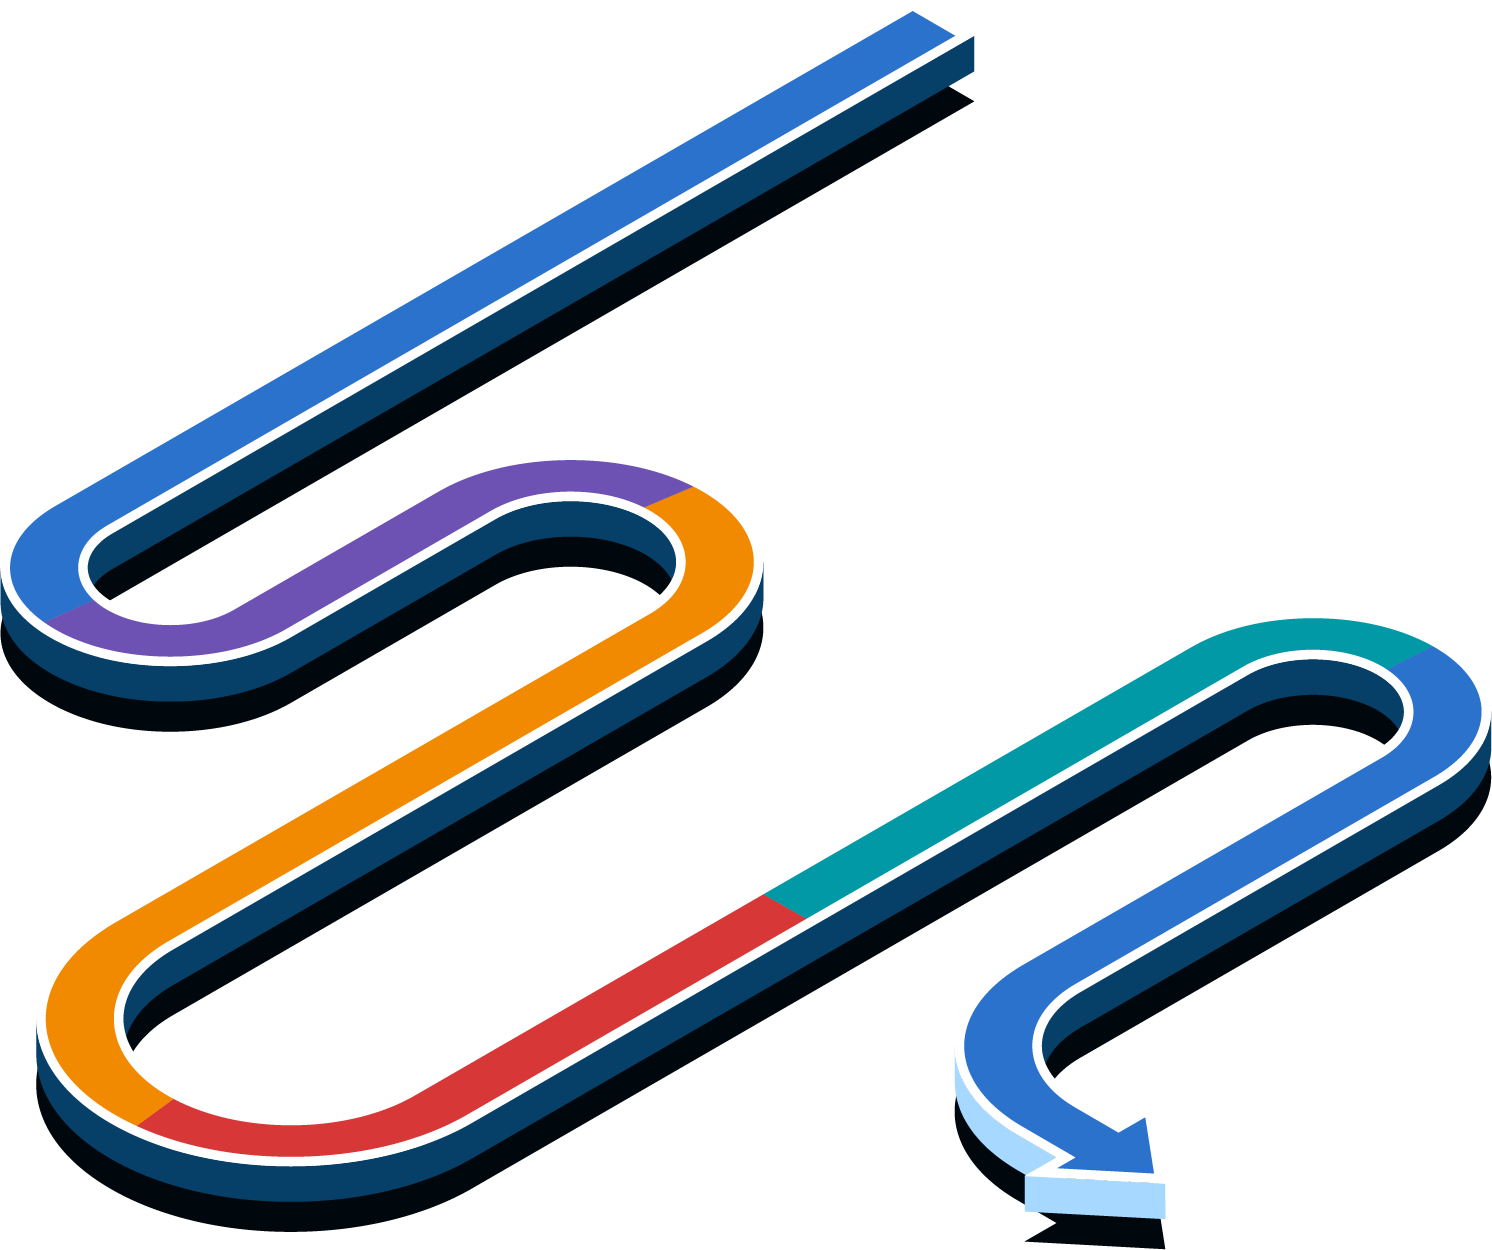
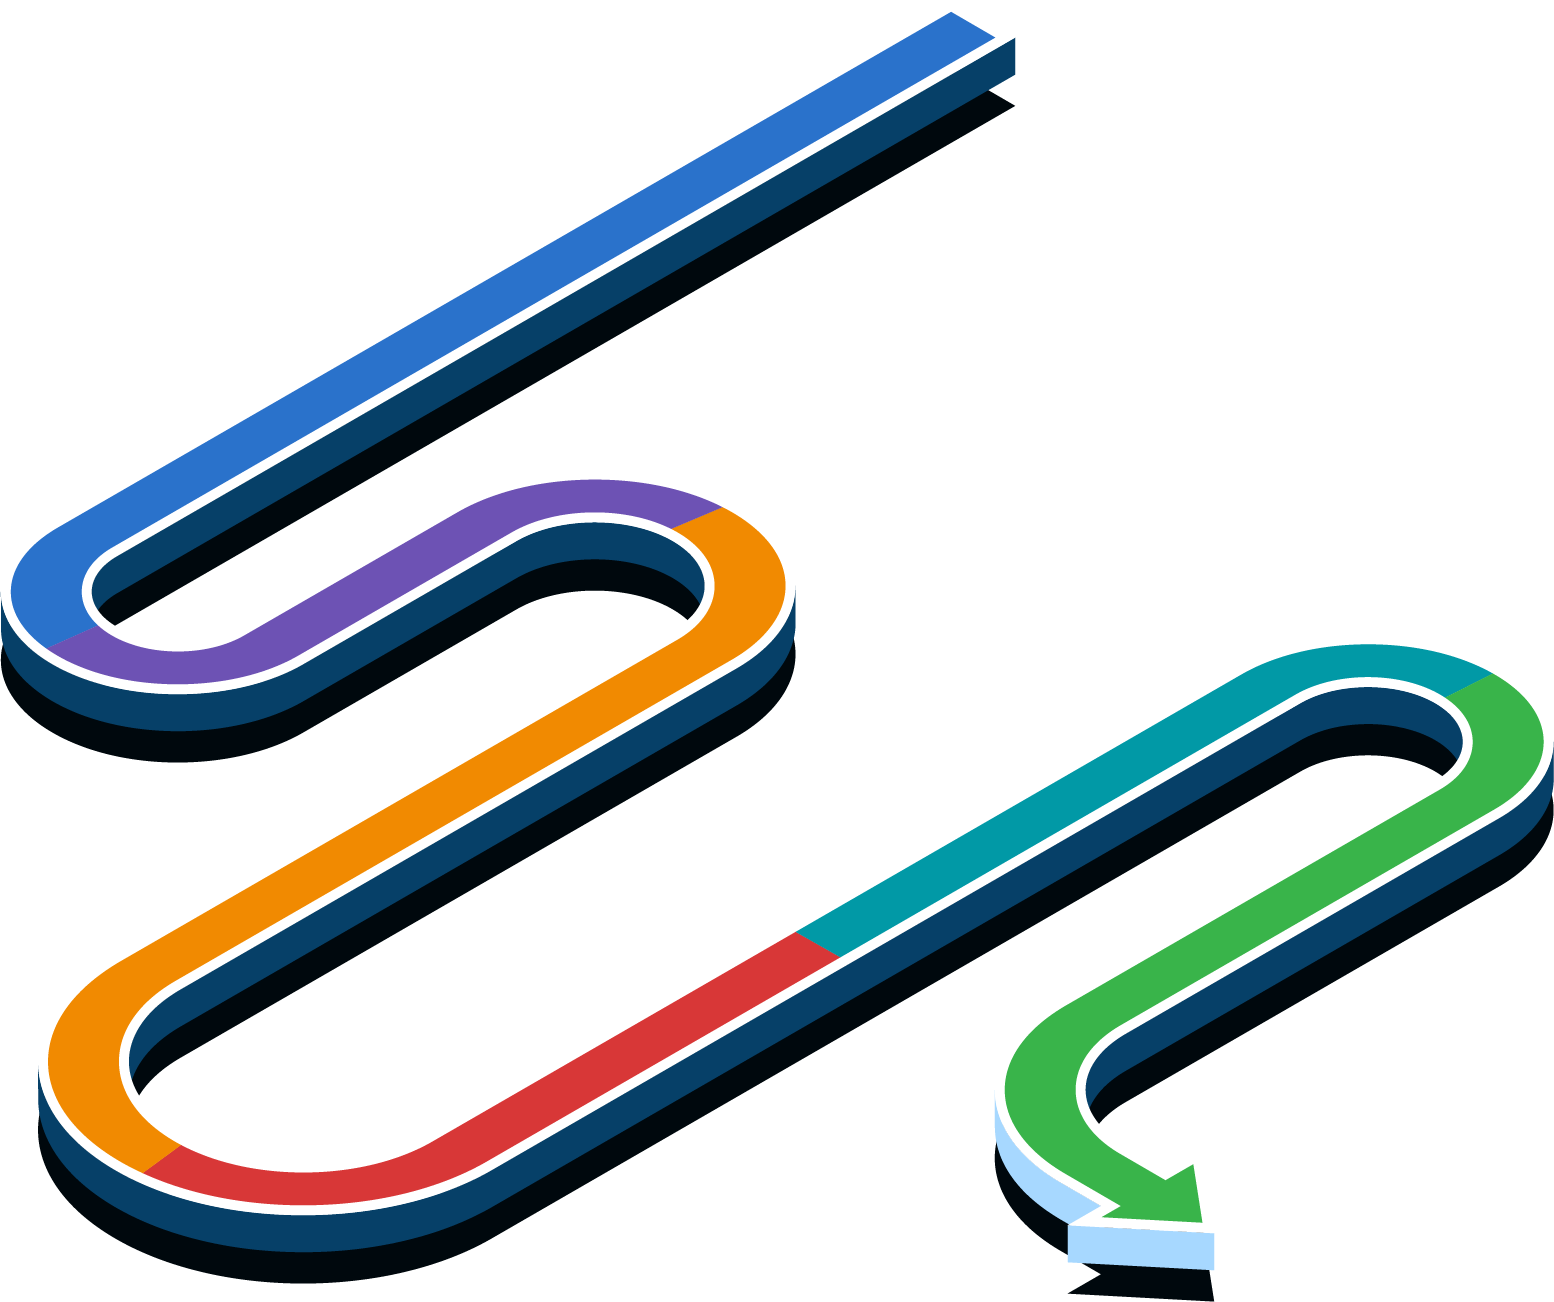
12

Changed region(s): [[0.6475, 0.4992, 1.0, 0.936], [0.7399, 0.9984, 0.8016, 1.0]]

diff --git a/index.html b/index.html
@@ -27,7 +27,7 @@
                   Catálogo de cursos
                 </p>
               </a>
-              <img src="imgs/Rueda_con_rayita.png" alt="" class="rueda">
+              <img src="imgs/globo-raya.png" alt="" class="rueda">
             </div>
             <div class="flecha2">
               <a href="link-flecha">
@@ -35,10 +35,10 @@
                   Mi ruta de Aprendizaje
                 </p>
               </a>
-              <img src="imgs/Rueda_con_rayita.png" alt="" class="rueda">
+              <img src="imgs/globo-raya.png" alt="" class="rueda">
             </div>
             <div class="flecha3">
-              <img src="imgs/Rueda_con_rayita.png" alt="" class="rueda">
+              <img src="imgs/globo-raya.png" alt="" class="rueda">
               <a href="link-flecha">
                 <p class="p-flecha">
                   Escuelas de formación
@@ -46,7 +46,7 @@
               </a>
             </div>
             <div class="flecha4">
-              <img src="imgs/Rueda_con_rayita.png" alt="" class="rueda">
+              <img src="imgs/globo-raya.png" alt="" class="rueda">
               <a href="link-flecha">
                 <p class="p-flecha">
                   Enlaces
